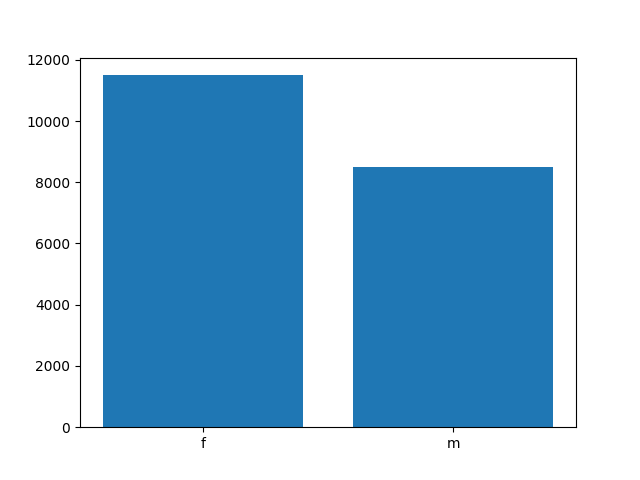
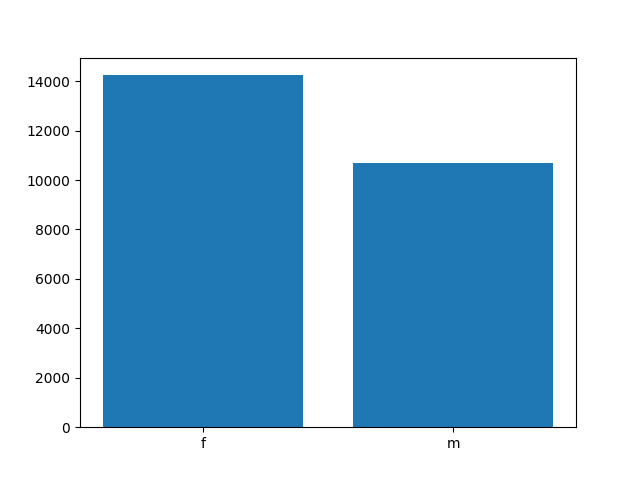
Final version

diff --git a/src/gender_salience.py b/src/gender_salience.py
@@ -22,7 +22,7 @@ files = ['facescrub_actors.txt', 'facescrub_actresses.txt']
 crop_path = join("../bin", "linux", "candidate_crops")
 model_path = join("../bin", "fastgaze.vxm")
 
-eval_size = 20000
+# eval_size = 20000
 
 def build_facrscrub_dataframe(source, files):
     names = list()
@@ -104,7 +104,7 @@ def create_pairs(df):
 
     # We need to randomly decide whether the male or female image is on the left, so we'll just use an RNG.
     # There are definitely more efficient and pythonic ways to do it but whatever.
-    for i in range(eval_size):
+    for i in range(len(female_df)):
         if random.randint == 0:
             img1 = male_df["image"].iloc[i]
             gender1 = "m"
@@ -131,9 +131,9 @@ def plot_counts(counts):
 
 
 if __name__ == "__main__":
-    pbar = tqdm(total=eval_size)
     data = build_facrscrub_dataframe(data_dir, files)
     tasks = create_pairs(data)
+    pbar = tqdm(total=len(tasks))
     pool_size = multiprocessing.cpu_count()
     pool = multiprocessing.Pool(processes=pool_size)
     results = pool.starmap(gender_salience, tasks)
